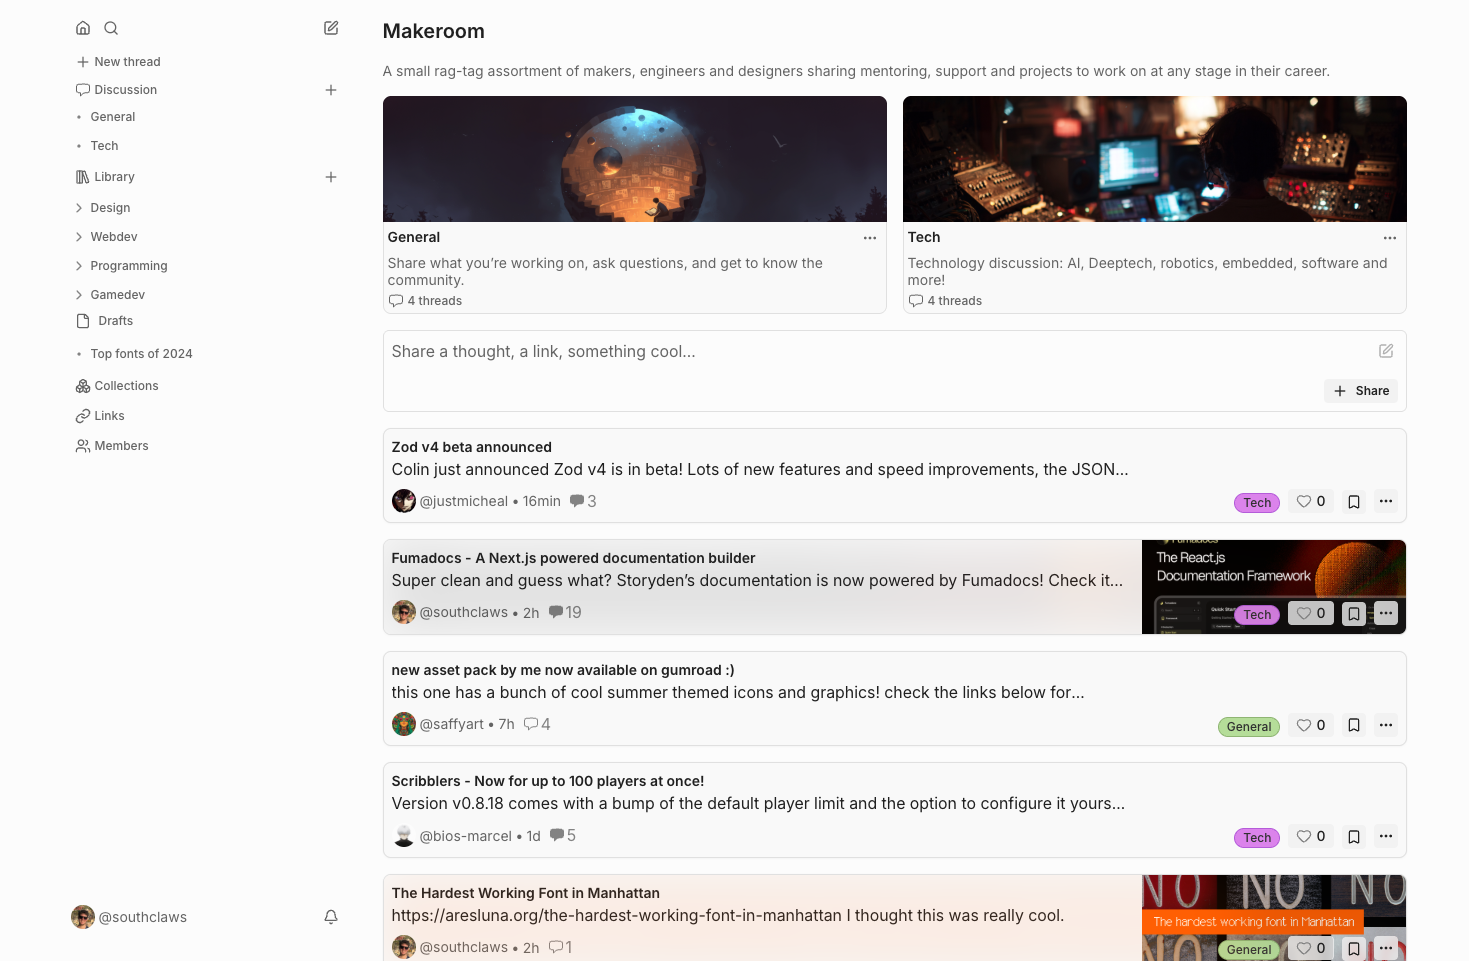
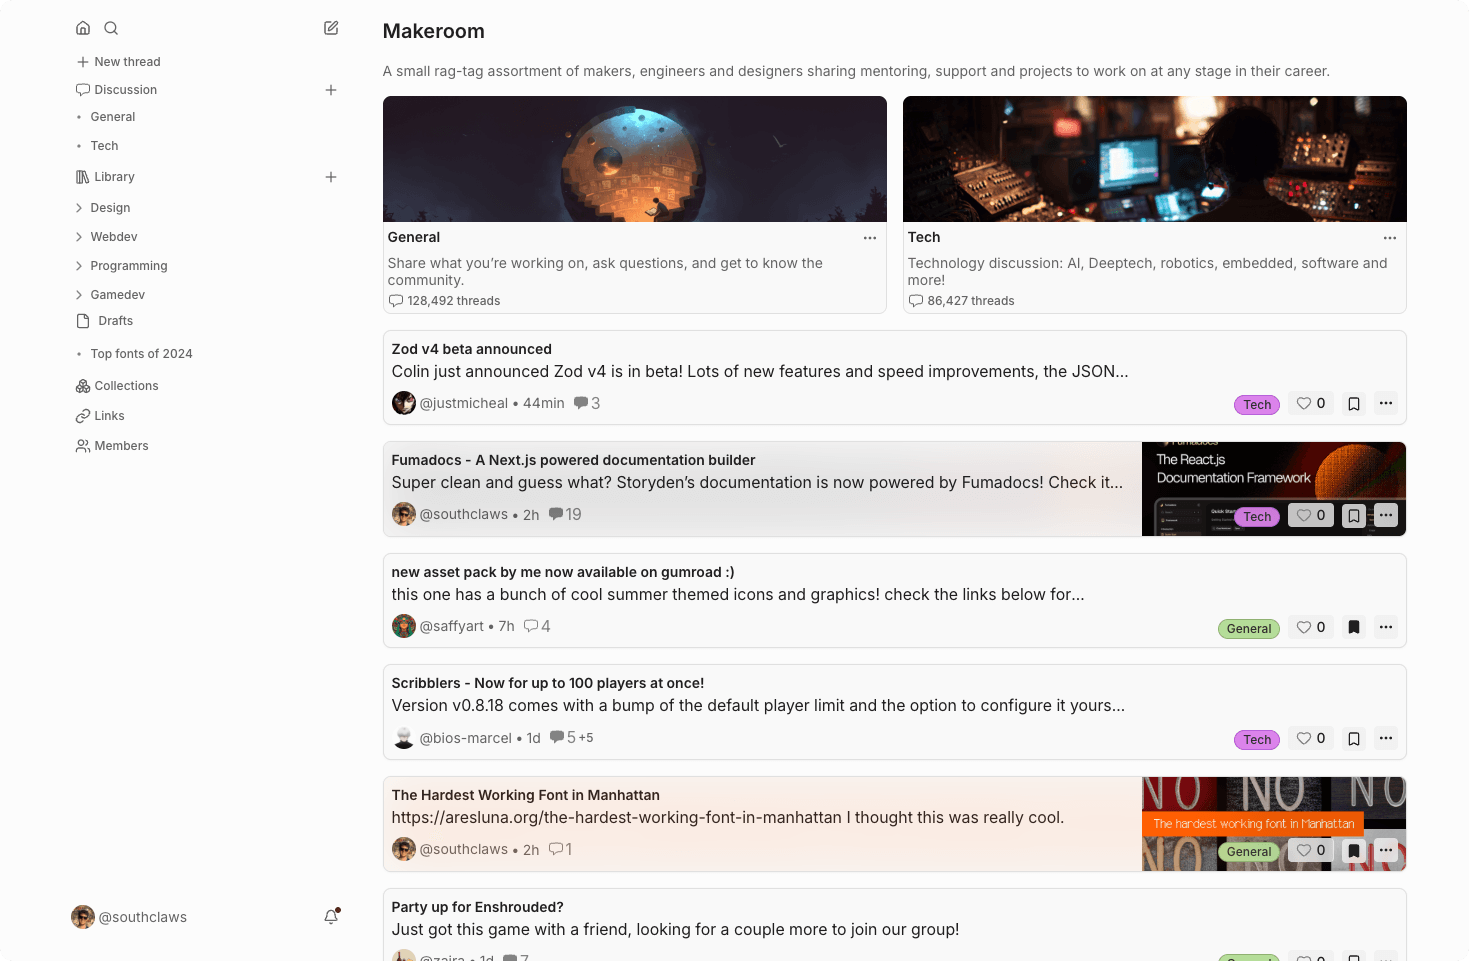
update home page screenshots

Changed region(s): [[0.2451, 0.3122, 0.9803, 1.0]]

diff --git a/home/src/app/(home)/sections/ScreenshotSection.tsx b/home/src/app/(home)/sections/ScreenshotSection.tsx
@@ -6,8 +6,7 @@ export function ScreenshotSection() {
       maxW="100vw"
       w="full"
       maxH={{
-        base: "30vh",
-        sm: "40vh",
+        base: "calc(min(100vw - 32px, 390px) * 1.68)",
         md: "50vh",
         lg: "70vh",
       }}
@@ -25,21 +24,35 @@ export function ScreenshotSection() {
           xl: "16",
         }}
       >
-        <picture>
+        <Box as="picture" maxW={{ base: "390px", md: "none" }}>
           <source
-            media="(max-width: 768px)"
-            srcSet="2025_app_screenshot_viewport.png"
+            media="(max-width: 767px)"
+            type="image/webp"
+            srcSet="/2026_app_screenshot_mobile_390.webp 390w, /2026_app_screenshot_mobile.webp 780w"
+            sizes="(min-width: 422px) 390px, calc(100vw - 32px)"
+            width={780}
+            height={1544}
           />
-          <source media="(min-width: 768px)" srcSet="2025_app_screenshot.png" />
-          <source media="(min-width: 768px)" srcSet="2025_app_screenshot.png" />
+          <source
+            media="(max-width: 767px)"
+            srcSet="/2026_app_screenshot_mobile.png"
+            width={780}
+            height={1544}
+          />
+          <source
+            type="image/webp"
+            srcSet="/2026_app_screenshot_1024.webp 1024w, /2026_app_screenshot.webp 1469w"
+            sizes="(min-width: 1597px) 1469px, (min-width: 1280px) calc(100vw - 128px), calc(100vw - 96px)"
+          />
           <img
-            src="2025_app_screenshot.png"
+            src="/2026_app_screenshot.png"
             alt=""
             role="presentation"
             width={1469}
             height={961}
+            decoding="async"
           />
-        </picture>
+        </Box>
       </VStack>
     </Box>
   );

diff --git a/home/src/app/(home)/sections/HeroSection.tsx b/home/src/app/(home)/sections/HeroSection.tsx
@@ -11,7 +11,7 @@ export function HeroSection() {
       <GridItem gridRow="1/2" gridColumn="1/2">
         <picture>
           <source
-            media="(max-width: 768px)"
+            media="(max-width: 767px)"
             srcSet="square-nice-lake.webp"
             width={1024}
             height={1024}
@@ -28,6 +28,7 @@ export function HeroSection() {
             alt="A sun-lit lake sitting before tall snow-covered mountains in the distance."
             width={3456}
             height={1728}
+            fetchPriority="high"
           />
         </picture>
       </GridItem>
@@ -48,6 +49,8 @@ export function HeroSection() {
               width="1790"
               height="1170"
               alt="The Storyden logo"
+              sizes="(min-width: 1024px) 192px, (min-width: 640px) 160px, 144px"
+              loading="eager"
             />
           </Box>
 
@@ -75,7 +78,7 @@ export function HeroSection() {
                     color: "black",
                     background: "white",
                   },
-                })
+                }),
               )}
               href="https://makeroom.club"
             >

diff --git a/home/src/app/(home)/sections/CollectiveMemorySection.tsx b/home/src/app/(home)/sections/CollectiveMemorySection.tsx
@@ -80,7 +80,7 @@ function Gardens() {
           bgColor="#F6F6F6"
           borderRadius="xl"
           boxShadow="xs"
-          backgroundImage="linear-gradient(180deg, rgba(0, 0, 0, 0) 0%, rgba(245, 245, 245, 0.62) 63%, rgba(245, 245, 245, 1) 86%), url('/square-tree-smol.png')"
+          backgroundImage="linear-gradient(180deg, rgba(0, 0, 0, 0) 0%, rgba(245, 245, 245, 0.62) 63%, rgba(245, 245, 245, 1) 86%), url('/square-tree-smol.webp')"
           backgroundSize="cover"
           backgroundPosition="top"
           overflowClipMargin="unset"
